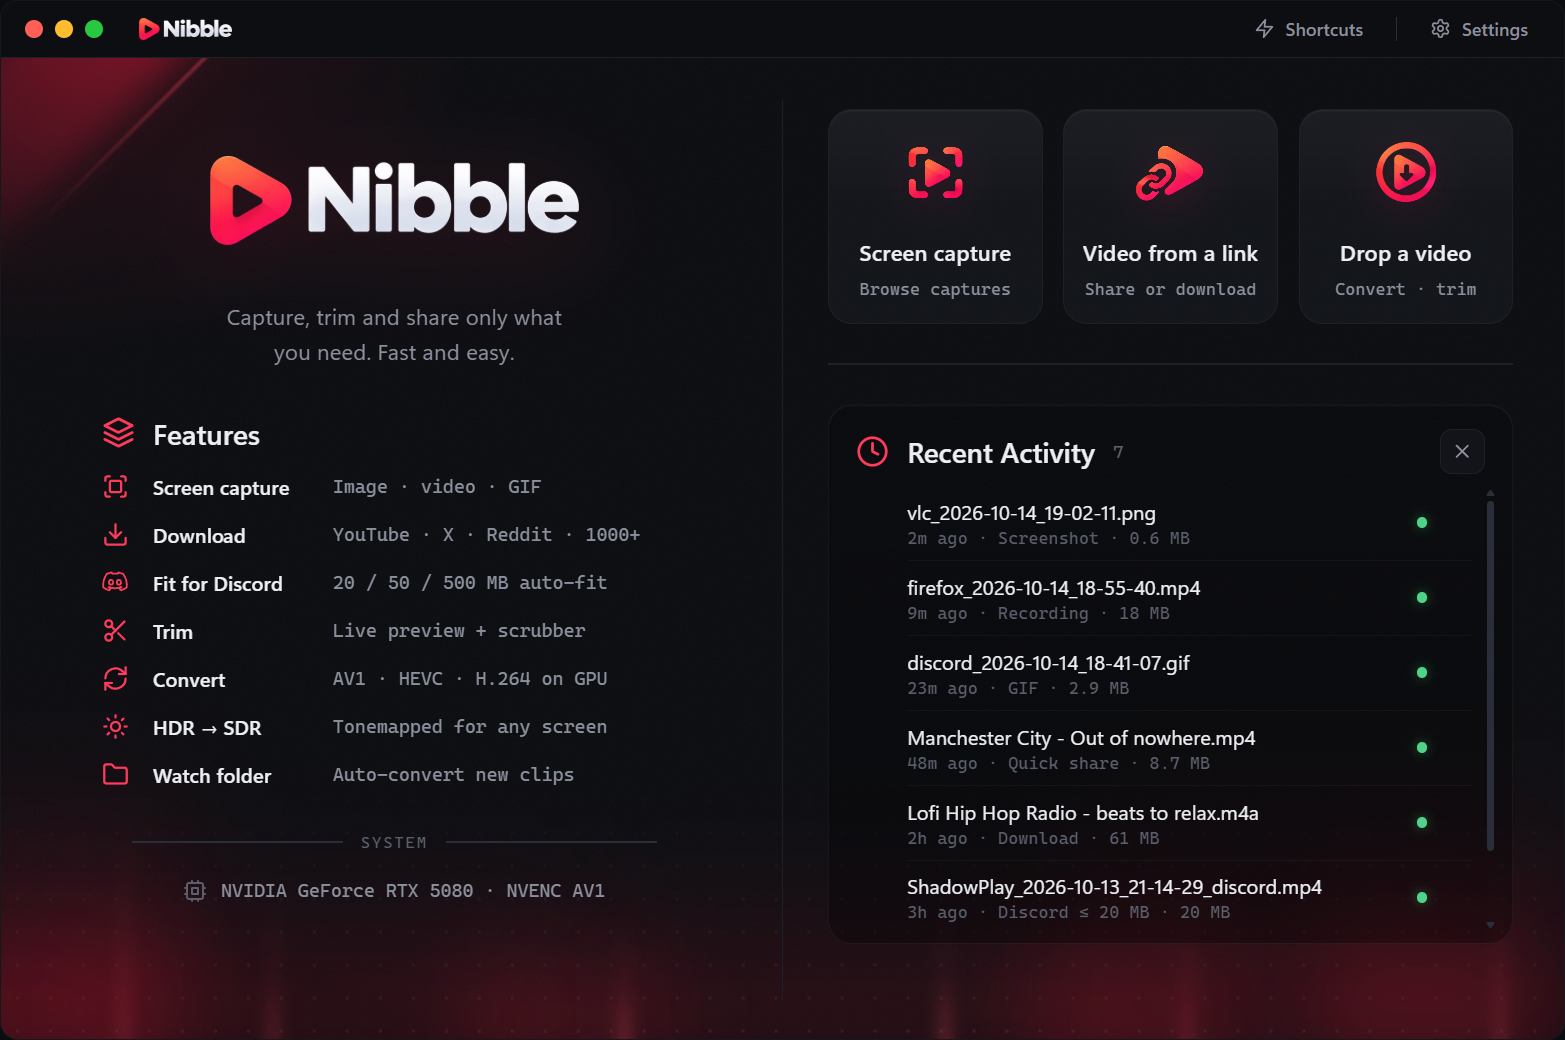
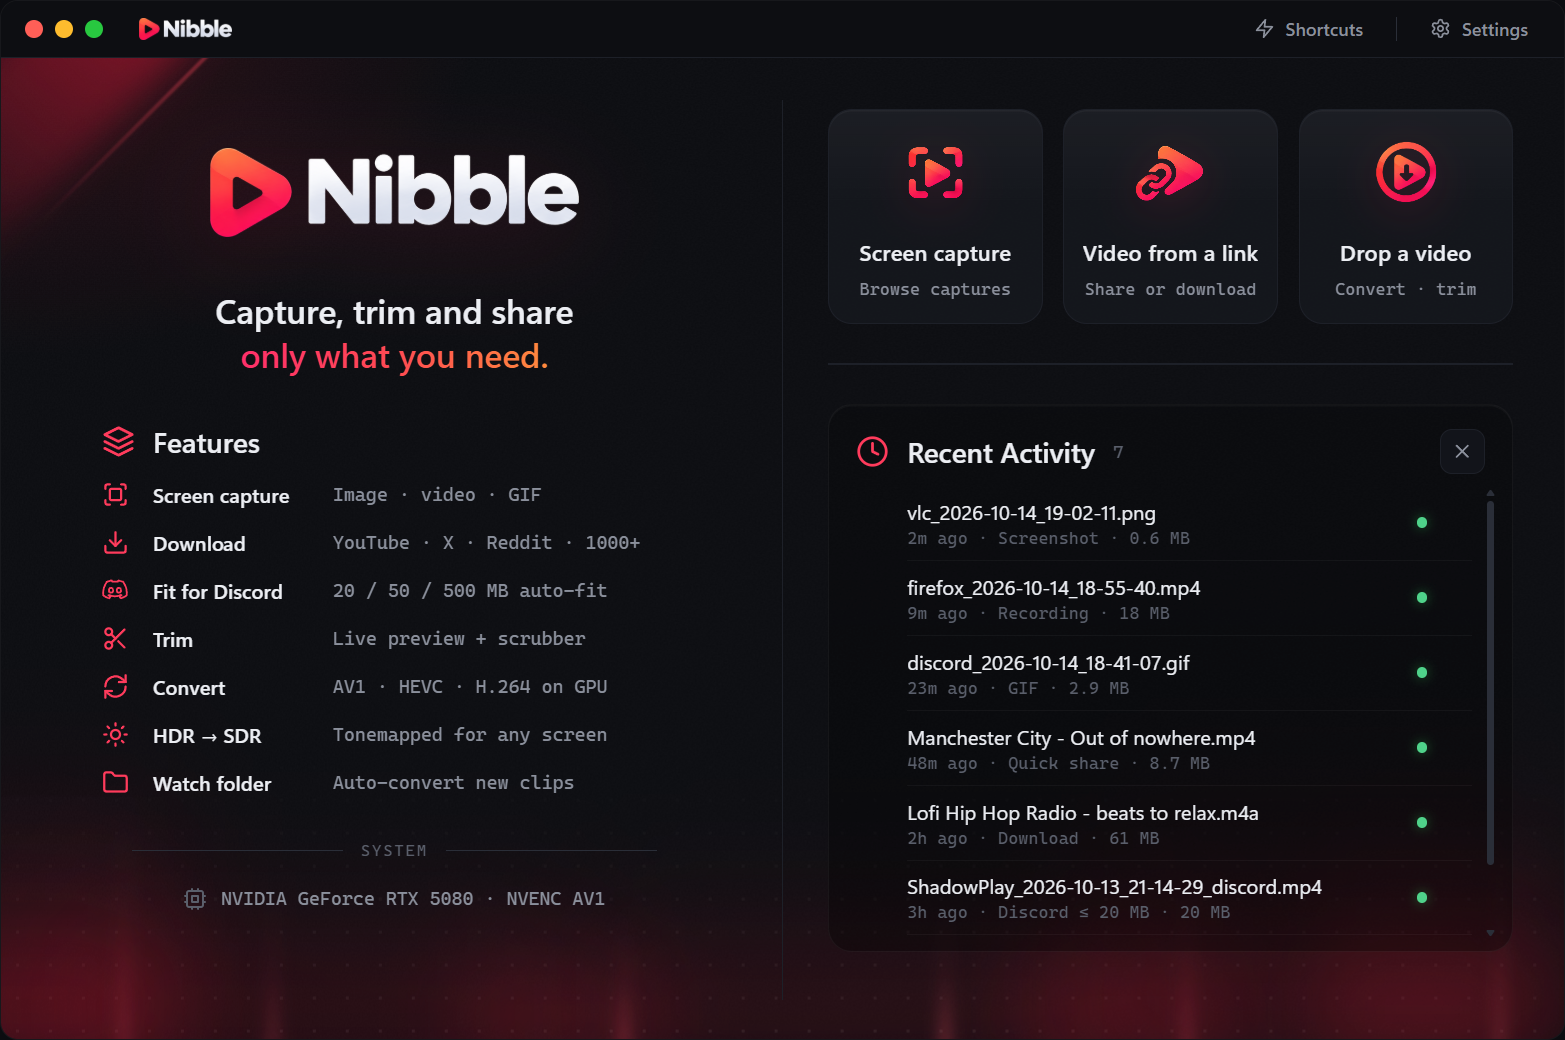
Two-tone tagline on the home screen

diff --git a/src/styles.css b/src/styles.css
@@ -389,12 +389,19 @@ kbd {
   display: block;
   filter: drop-shadow(0 10px 30px rgba(255, 45, 85, 0.18));
 }
+/* Two-tone tagline: plain first line, the point in the brand gradient */
 .hero-tagline {
-  color: var(--text-dim);
-  font-size: 15px;
-  line-height: 1.55;
-  margin-top: 18px;
+  color: var(--text);
+  font-size: 23px;
+  font-weight: 600;
+  letter-spacing: -0.3px;
+  line-height: 1.3;
+  margin-top: 16px;
   margin-bottom: 6px;
+}
+.tg-accent {
+  background: linear-gradient(90deg, #ff2f6a 0%, #ff4a52 50%, #ff8a3d 100%);
+  -webkit-background-clip: text; background-clip: text; color: transparent;
 }
 
 /* Features under the logo (left-aligned block in the centred column) */

diff --git a/src/index.html b/src/index.html
@@ -187,7 +187,7 @@
 
         <div class="welcome-left">
           <img class="hero-logo" src="assets/logo.png" alt="Nibble" draggable="false" />
-          <p class="hero-tagline">Capture, trim and share only what<br />you need. Fast and easy.</p>
+          <p class="hero-tagline">Capture, trim and share<br /><span class="tg-accent">only what you need.</span></p>
 
           <div class="welcome-feats">
             <div class="feat-head">
